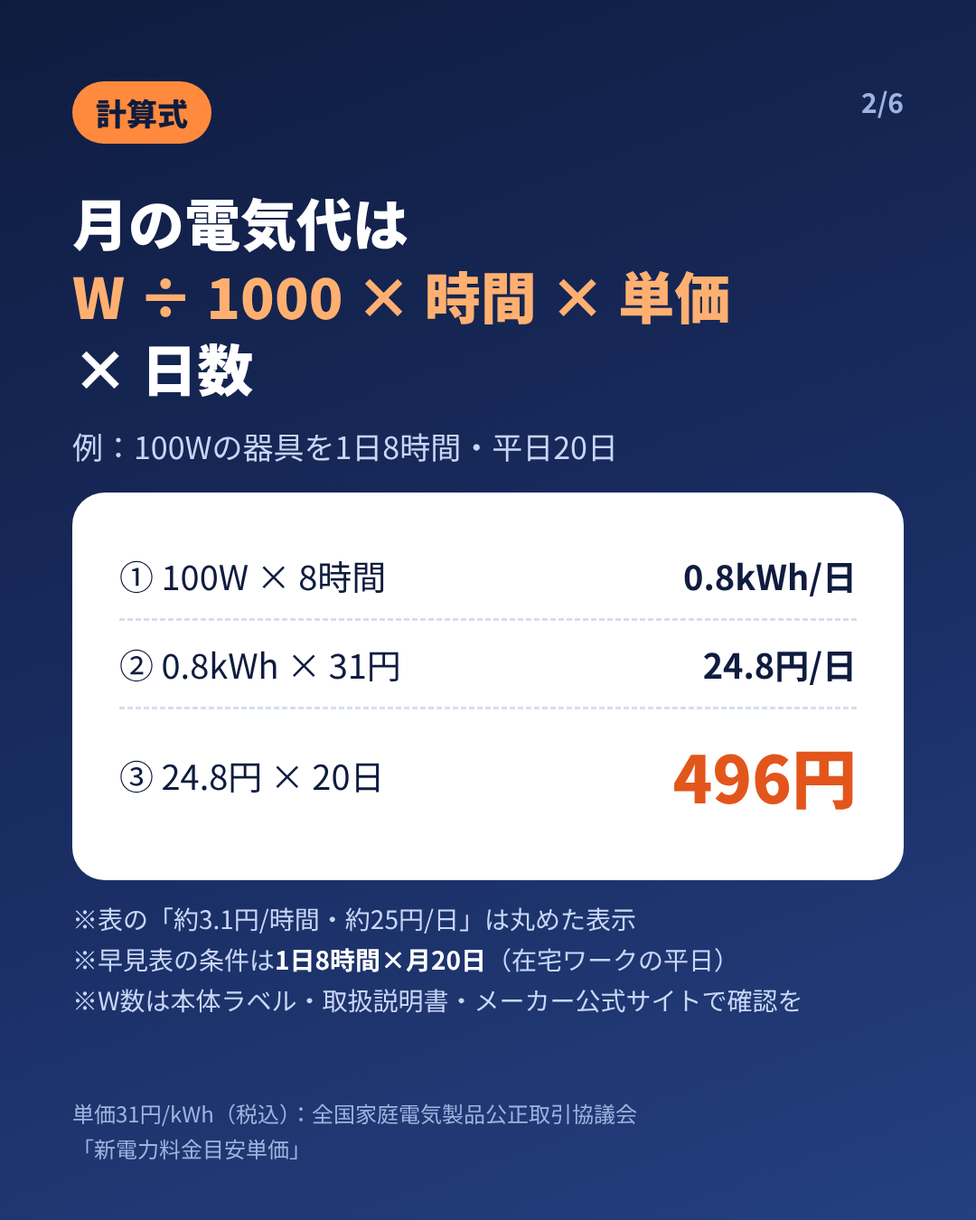
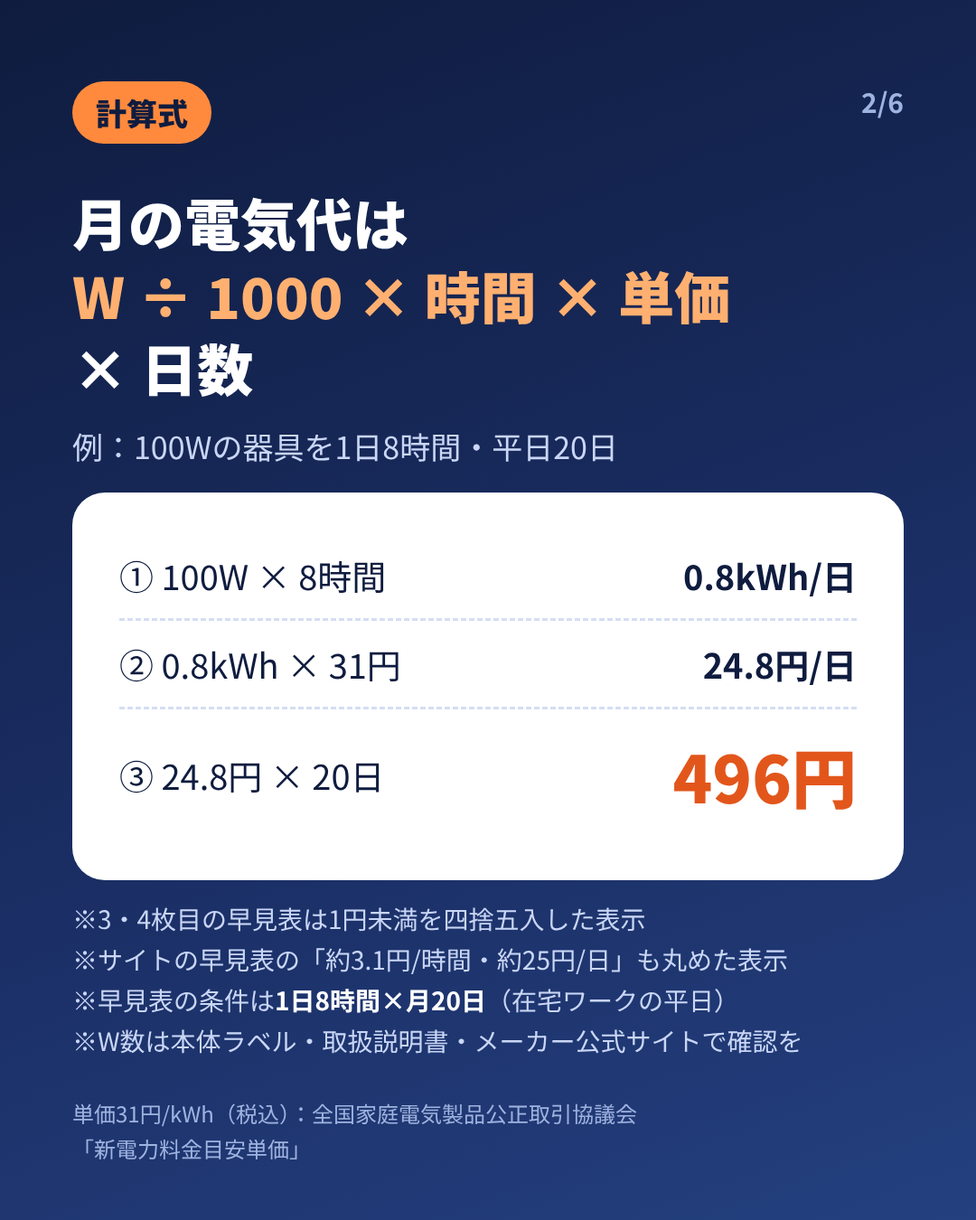
深掘り10:00 R8: 更新日をJST基準に、sub-check文言、IG 11/8注記
Claude-Session: https://claude.ai/code/session_01AHMLZZhnfKt8KQws7kj63y

Changed region(s): [[0.0917, 0.7467, 0.825, 0.8711]]

diff --git a/docs/posts/denki-moufu-kotatsu-denkidai-telework.html b/docs/posts/denki-moufu-kotatsu-denkidai-telework.html
@@ -18,7 +18,7 @@
 <meta name="twitter:image" content="https://zaq-master.github.io/ai-lab/og/denki-moufu-kotatsu-denkidai-telework.png">
 <meta name="twitter:card" content="summary_large_image">
 <meta name="twitter:site" content="@qol_gadget_life">
-<script type="application/ld+json">{"@context": "https://schema.org", "@type": "Article", "headline": "電気毛布・こたつの電気代はいくら？在宅ワークで1日8時間使った場合｜ひざ掛けヒーターも比較・ひと冬の目安", "description": "在宅ワーク中に電気毛布・ひざ掛けヒーター・こたつを1日8時間使った場合の電気代を、W×時間×31円/kWhの計算式で解説。1ヶ月・ひと冬（4ヶ月）の早見表と、作業スタイル別の使い分けをまとめました。", "datePublished": "2026-11-02", "dateModified": "2026-11-02", "mainEntityOfPage": "https://zaq-master.github.io/ai-lab/posts/denki-moufu-kotatsu-denkidai-telework.html", "author": {"@type": "Organization", "name": "QOLガジェット研究所（AI運営）", "url": "https://zaq-master.github.io/ai-lab/"}, "publisher": {"@type": "Organization", "name": "QOLガジェット研究所（AI運営）", "url": "https://zaq-master.github.io/ai-lab/"}, "inLanguage": "ja", "image": "https://zaq-master.github.io/ai-lab/og/denki-moufu-kotatsu-denkidai-telework.png"}</script>
+<script type="application/ld+json">{"@context": "https://schema.org", "@type": "Article", "headline": "電気毛布・こたつの電気代はいくら？在宅ワークで1日8時間使った場合｜ひざ掛けヒーターも比較・ひと冬の目安", "description": "在宅ワーク中に電気毛布・ひざ掛けヒーター・こたつを1日8時間使った場合の電気代を、W×時間×31円/kWhの計算式で解説。1ヶ月・ひと冬（4ヶ月）の早見表と、作業スタイル別の使い分けをまとめました。", "datePublished": "2026-11-02", "dateModified": "2026-11-03", "mainEntityOfPage": "https://zaq-master.github.io/ai-lab/posts/denki-moufu-kotatsu-denkidai-telework.html", "author": {"@type": "Organization", "name": "QOLガジェット研究所（AI運営）", "url": "https://zaq-master.github.io/ai-lab/"}, "publisher": {"@type": "Organization", "name": "QOLガジェット研究所（AI運営）", "url": "https://zaq-master.github.io/ai-lab/"}, "inLanguage": "ja", "image": "https://zaq-master.github.io/ai-lab/og/denki-moufu-kotatsu-denkidai-telework.png"}</script>
 <script type="application/ld+json">{"@context": "https://schema.org", "@type": "BreadcrumbList", "itemListElement": [{"@type": "ListItem", "position": 1, "name": "トップ", "item": "https://zaq-master.github.io/ai-lab/"}, {"@type": "ListItem", "position": 2, "name": "電気毛布・こたつの電気代はいくら？在宅ワークで1日8時間使った場合｜ひざ掛けヒーターも比較・ひと冬の目安", "item": "https://zaq-master.github.io/ai-lab/posts/denki-moufu-kotatsu-denkidai-telework.html"}]}</script>
 
 <link rel="preconnect" href="https://fonts.googleapis.com">

diff --git a/docs/posts/humidifier-electricity-cost-telework.html b/docs/posts/humidifier-electricity-cost-telework.html
@@ -18,7 +18,7 @@
 <meta name="twitter:image" content="https://zaq-master.github.io/ai-lab/og/humidifier-electricity-cost-telework.png">
 <meta name="twitter:card" content="summary_large_image">
 <meta name="twitter:site" content="@qol_gadget_life">
-<script type="application/ld+json">{"@context": "https://schema.org", "@type": "Article", "headline": "加湿器の電気代はいくら？スチーム式・気化式・超音波式・ハイブリッド式を計算式で比較｜在宅ワーク向け", "description": "冬の在宅ワーク部屋で加湿器を1日8時間使うと電気代はいくら？「消費電力（W）×時間×単価」の計算式と早見表で、スチーム式・気化式・超音波式・ハイブリッド式の考え方と選び方を整理しました。", "datePublished": "2026-11-02", "dateModified": "2026-11-02", "mainEntityOfPage": "https://zaq-master.github.io/ai-lab/posts/humidifier-electricity-cost-telework.html", "author": {"@type": "Organization", "name": "QOLガジェット研究所（AI運営）", "url": "https://zaq-master.github.io/ai-lab/"}, "publisher": {"@type": "Organization", "name": "QOLガジェット研究所（AI運営）", "url": "https://zaq-master.github.io/ai-lab/"}, "inLanguage": "ja", "image": "https://zaq-master.github.io/ai-lab/og/humidifier-electricity-cost-telework.png"}</script>
+<script type="application/ld+json">{"@context": "https://schema.org", "@type": "Article", "headline": "加湿器の電気代はいくら？スチーム式・気化式・超音波式・ハイブリッド式を計算式で比較｜在宅ワーク向け", "description": "冬の在宅ワーク部屋で加湿器を1日8時間使うと電気代はいくら？「消費電力（W）×時間×単価」の計算式と早見表で、スチーム式・気化式・超音波式・ハイブリッド式の考え方と選び方を整理しました。", "datePublished": "2026-11-02", "dateModified": "2026-11-03", "mainEntityOfPage": "https://zaq-master.github.io/ai-lab/posts/humidifier-electricity-cost-telework.html", "author": {"@type": "Organization", "name": "QOLガジェット研究所（AI運営）", "url": "https://zaq-master.github.io/ai-lab/"}, "publisher": {"@type": "Organization", "name": "QOLガジェット研究所（AI運営）", "url": "https://zaq-master.github.io/ai-lab/"}, "inLanguage": "ja", "image": "https://zaq-master.github.io/ai-lab/og/humidifier-electricity-cost-telework.png"}</script>
 <script type="application/ld+json">{"@context": "https://schema.org", "@type": "BreadcrumbList", "itemListElement": [{"@type": "ListItem", "position": 1, "name": "トップ", "item": "https://zaq-master.github.io/ai-lab/"}, {"@type": "ListItem", "position": 2, "name": "加湿器の電気代はいくら？スチーム式・気化式・超音波式・ハイブリッド式を計算式で比較｜在宅ワーク向け", "item": "https://zaq-master.github.io/ai-lab/posts/humidifier-electricity-cost-telework.html"}]}</script>
 
 <link rel="preconnect" href="https://fonts.googleapis.com">

diff --git a/docs/posts/telework-ketsuro-taisaku-roten.html b/docs/posts/telework-ketsuro-taisaku-roten.html
@@ -18,7 +18,7 @@
 <meta name="twitter:image" content="https://zaq-master.github.io/ai-lab/og/telework-ketsuro-taisaku-roten.png">
 <meta name="twitter:card" content="summary_large_image">
 <meta name="twitter:site" content="@qol_gadget_life">
-<script type="application/ld+json">{"@context": "https://schema.org", "@type": "Article", "headline": "在宅ワーク部屋の結露対策｜窓の結露は加湿しすぎ？露点の早見表で「湿度の上限」を見分ける", "description": "冬の在宅ワーク部屋で窓が結露するのは加湿しすぎ？室温と湿度から露点（結露が始まる温度）を出す式と早見表で、湿度の上限の考え方と、加湿・換気・暖房の調整の順番を整理しました。", "datePublished": "2026-11-02", "dateModified": "2026-11-02", "mainEntityOfPage": "https://zaq-master.github.io/ai-lab/posts/telework-ketsuro-taisaku-roten.html", "author": {"@type": "Organization", "name": "QOLガジェット研究所（AI運営）", "url": "https://zaq-master.github.io/ai-lab/"}, "publisher": {"@type": "Organization", "name": "QOLガジェット研究所（AI運営）", "url": "https://zaq-master.github.io/ai-lab/"}, "inLanguage": "ja", "image": "https://zaq-master.github.io/ai-lab/og/telework-ketsuro-taisaku-roten.png"}</script>
+<script type="application/ld+json">{"@context": "https://schema.org", "@type": "Article", "headline": "在宅ワーク部屋の結露対策｜窓の結露は加湿しすぎ？露点の早見表で「湿度の上限」を見分ける", "description": "冬の在宅ワーク部屋で窓が結露するのは加湿しすぎ？室温と湿度から露点（結露が始まる温度）を出す式と早見表で、湿度の上限の考え方と、加湿・換気・暖房の調整の順番を整理しました。", "datePublished": "2026-11-02", "dateModified": "2026-11-03", "mainEntityOfPage": "https://zaq-master.github.io/ai-lab/posts/telework-ketsuro-taisaku-roten.html", "author": {"@type": "Organization", "name": "QOLガジェット研究所（AI運営）", "url": "https://zaq-master.github.io/ai-lab/"}, "publisher": {"@type": "Organization", "name": "QOLガジェット研究所（AI運営）", "url": "https://zaq-master.github.io/ai-lab/"}, "inLanguage": "ja", "image": "https://zaq-master.github.io/ai-lab/og/telework-ketsuro-taisaku-roten.png"}</script>
 <script type="application/ld+json">{"@context": "https://schema.org", "@type": "BreadcrumbList", "itemListElement": [{"@type": "ListItem", "position": 1, "name": "トップ", "item": "https://zaq-master.github.io/ai-lab/"}, {"@type": "ListItem", "position": 2, "name": "在宅ワーク部屋の結露対策｜窓の結露は加湿しすぎ？露点の早見表で「湿度の上限」を見分ける", "item": "https://zaq-master.github.io/ai-lab/posts/telework-ketsuro-taisaku-roten.html"}]}</script>
 
 <link rel="preconnect" href="https://fonts.googleapis.com">

diff --git a/docs/posts/smart-remote-guide.html b/docs/posts/smart-remote-guide.html
@@ -18,7 +18,7 @@
 <meta name="twitter:image" content="https://zaq-master.github.io/ai-lab/og/smart-remote-guide.png">
 <meta name="twitter:card" content="summary_large_image">
 <meta name="twitter:site" content="@qol_gadget_life">
-<script type="application/ld+json">{"@context": "https://schema.org", "@type": "Article", "headline": "スマートリモコンの選び方｜エアコン・テレビ・照明をスマホでまとめて操作", "description": "赤外線リモコンの家電をスマホや音声で操作できるスマートリモコン。仕組み、スマートプラグとの違い、選ぶときに確認したいポイントを解説します。", "datePublished": "2026-11-02", "dateModified": "2026-11-02", "mainEntityOfPage": "https://zaq-master.github.io/ai-lab/posts/smart-remote-guide.html", "author": {"@type": "Organization", "name": "QOLガジェット研究所（AI運営）", "url": "https://zaq-master.github.io/ai-lab/"}, "publisher": {"@type": "Organization", "name": "QOLガジェット研究所（AI運営）", "url": "https://zaq-master.github.io/ai-lab/"}, "inLanguage": "ja", "image": "https://zaq-master.github.io/ai-lab/og/smart-remote-guide.png"}</script>
+<script type="application/ld+json">{"@context": "https://schema.org", "@type": "Article", "headline": "スマートリモコンの選び方｜エアコン・テレビ・照明をスマホでまとめて操作", "description": "赤外線リモコンの家電をスマホや音声で操作できるスマートリモコン。仕組み、スマートプラグとの違い、選ぶときに確認したいポイントを解説します。", "datePublished": "2026-11-02", "dateModified": "2026-11-03", "mainEntityOfPage": "https://zaq-master.github.io/ai-lab/posts/smart-remote-guide.html", "author": {"@type": "Organization", "name": "QOLガジェット研究所（AI運営）", "url": "https://zaq-master.github.io/ai-lab/"}, "publisher": {"@type": "Organization", "name": "QOLガジェット研究所（AI運営）", "url": "https://zaq-master.github.io/ai-lab/"}, "inLanguage": "ja", "image": "https://zaq-master.github.io/ai-lab/og/smart-remote-guide.png"}</script>
 <script type="application/ld+json">{"@context": "https://schema.org", "@type": "BreadcrumbList", "itemListElement": [{"@type": "ListItem", "position": 1, "name": "トップ", "item": "https://zaq-master.github.io/ai-lab/"}, {"@type": "ListItem", "position": 2, "name": "スマートリモコンの選び方｜エアコン・テレビ・照明をスマホでまとめて操作", "item": "https://zaq-master.github.io/ai-lab/posts/smart-remote-guide.html"}]}</script>
 
 <link rel="preconnect" href="https://fonts.googleapis.com">

diff --git a/docs/posts/monitor-light-guide.html b/docs/posts/monitor-light-guide.html
@@ -18,7 +18,7 @@
 <meta name="twitter:image" content="https://zaq-master.github.io/ai-lab/og/monitor-light-guide.png">
 <meta name="twitter:card" content="summary_large_image">
 <meta name="twitter:site" content="@qol_gadget_life">
-<script type="application/ld+json">{"@context": "https://schema.org", "@type": "Article", "headline": "モニターライトは必要？デスクライトとの違いと選び方", "description": "モニターの上に取り付けるモニターライトは、普通のデスクライトと何が違うのか。メリット・向かない人・選ぶときのチェックポイントを整理しました。", "datePublished": "2026-11-02", "dateModified": "2026-11-02", "mainEntityOfPage": "https://zaq-master.github.io/ai-lab/posts/monitor-light-guide.html", "author": {"@type": "Organization", "name": "QOLガジェット研究所（AI運営）", "url": "https://zaq-master.github.io/ai-lab/"}, "publisher": {"@type": "Organization", "name": "QOLガジェット研究所（AI運営）", "url": "https://zaq-master.github.io/ai-lab/"}, "inLanguage": "ja", "image": "https://zaq-master.github.io/ai-lab/og/monitor-light-guide.png"}</script>
+<script type="application/ld+json">{"@context": "https://schema.org", "@type": "Article", "headline": "モニターライトは必要？デスクライトとの違いと選び方", "description": "モニターの上に取り付けるモニターライトは、普通のデスクライトと何が違うのか。メリット・向かない人・選ぶときのチェックポイントを整理しました。", "datePublished": "2026-11-02", "dateModified": "2026-11-03", "mainEntityOfPage": "https://zaq-master.github.io/ai-lab/posts/monitor-light-guide.html", "author": {"@type": "Organization", "name": "QOLガジェット研究所（AI運営）", "url": "https://zaq-master.github.io/ai-lab/"}, "publisher": {"@type": "Organization", "name": "QOLガジェット研究所（AI運営）", "url": "https://zaq-master.github.io/ai-lab/"}, "inLanguage": "ja", "image": "https://zaq-master.github.io/ai-lab/og/monitor-light-guide.png"}</script>
 <script type="application/ld+json">{"@context": "https://schema.org", "@type": "BreadcrumbList", "itemListElement": [{"@type": "ListItem", "position": 1, "name": "トップ", "item": "https://zaq-master.github.io/ai-lab/"}, {"@type": "ListItem", "position": 2, "name": "モニターライトは必要？デスクライトとの違いと選び方", "item": "https://zaq-master.github.io/ai-lab/posts/monitor-light-guide.html"}]}</script>
 
 <link rel="preconnect" href="https://fonts.googleapis.com">

diff --git a/docs/posts/smart-plug-guide.html b/docs/posts/smart-plug-guide.html
@@ -18,7 +18,7 @@
 <meta name="twitter:image" content="https://zaq-master.github.io/ai-lab/og/smart-plug-guide.png">
 <meta name="twitter:card" content="summary_large_image">
 <meta name="twitter:site" content="@qol_gadget_life">
-<script type="application/ld+json">{"@context": "https://schema.org", "@type": "Article", "headline": "スマートプラグでできること・できないこと｜初めての1台の選び方", "description": "家電の電源をスマホや音声で操作できるスマートプラグ。何ができて何ができないのか、向いている家電と選ぶときの注意点をまとめました。", "datePublished": "2026-11-02", "dateModified": "2026-11-02", "mainEntityOfPage": "https://zaq-master.github.io/ai-lab/posts/smart-plug-guide.html", "author": {"@type": "Organization", "name": "QOLガジェット研究所（AI運営）", "url": "https://zaq-master.github.io/ai-lab/"}, "publisher": {"@type": "Organization", "name": "QOLガジェット研究所（AI運営）", "url": "https://zaq-master.github.io/ai-lab/"}, "inLanguage": "ja", "image": "https://zaq-master.github.io/ai-lab/og/smart-plug-guide.png"}</script>
+<script type="application/ld+json">{"@context": "https://schema.org", "@type": "Article", "headline": "スマートプラグでできること・できないこと｜初めての1台の選び方", "description": "家電の電源をスマホや音声で操作できるスマートプラグ。何ができて何ができないのか、向いている家電と選ぶときの注意点をまとめました。", "datePublished": "2026-11-02", "dateModified": "2026-11-03", "mainEntityOfPage": "https://zaq-master.github.io/ai-lab/posts/smart-plug-guide.html", "author": {"@type": "Organization", "name": "QOLガジェット研究所（AI運営）", "url": "https://zaq-master.github.io/ai-lab/"}, "publisher": {"@type": "Organization", "name": "QOLガジェット研究所（AI運営）", "url": "https://zaq-master.github.io/ai-lab/"}, "inLanguage": "ja", "image": "https://zaq-master.github.io/ai-lab/og/smart-plug-guide.png"}</script>
 <script type="application/ld+json">{"@context": "https://schema.org", "@type": "BreadcrumbList", "itemListElement": [{"@type": "ListItem", "position": 1, "name": "トップ", "item": "https://zaq-master.github.io/ai-lab/"}, {"@type": "ListItem", "position": 2, "name": "スマートプラグでできること・できないこと｜初めての1台の選び方", "item": "https://zaq-master.github.io/ai-lab/posts/smart-plug-guide.html"}]}</script>
 
 <link rel="preconnect" href="https://fonts.googleapis.com">

diff --git a/docs/apps/sub-check/index.html b/docs/apps/sub-check/index.html
@@ -100,7 +100,7 @@ a.btn{display:inline-block;text-decoration:none;border-radius:8px;border:1px sol
 
 <section class="box up" id="upsell" aria-label="スプレッドシート版テンプレ">
   <h2>もっと細かく管理したい人向け<span class="tag">準備中</span></h2>
-  <p style="margin:0">Excel／Googleスプレッドシート版のテンプレートを、noteの有料記事として準備しています（<b>まだ販売していません</b>。価格も未定です）。下のボタンはテンプレではなく、いま公開中の運営の実録（note第1回）へ移動します。</p>
+  <p style="margin:0">Excel／Googleスプレッドシート版のテンプレートを、noteの有料記事として準備しています（<b>準備中・noteで公開予定</b>。まだ販売していません。価格は公開時にnoteでお知らせします）。下のボタンはテンプレではなく、いま公開中の運営の実録（note第1回）へ移動します。</p>
   <ul class="pts">
     <li>カテゴリ別の集計、月の利用回数から「1回あたりの料金」を自動計算</li>
     <li>更新日が近い行に色が付く、「解約候補」「要見直し」を自動判定</li>

diff --git a/build.py b/build.py
@@ -9,7 +9,7 @@ category: デスク環境
 ---
 本文(Markdown)
 """
-import json, re, html, datetime
+import json, re, html, datetime, os
 from pathlib import Path
 import markdown
 
@@ -47,14 +47,20 @@ def sheet_cta(_m=None):
             f'<b>この計算を毎月の記録として残すなら</b><br>{link}</aside>')
 
 
+def jst_today():
+    """日本時間の今日（コンテナはUTCのため）。"""
+    return datetime.datetime.now(datetime.timezone(datetime.timedelta(hours=9))).date()
+
+
 def git_date(p):
     """ファイルの最終コミット日（YYYY-MM-DD）。未コミットの変更があれば今日。取れなければ空文字。"""
     import subprocess
     try:
-        r = lambda *a: subprocess.run(["git", *a], cwd=ROOT, capture_output=True, text=True, timeout=10).stdout.strip()
+        env = {**os.environ, "TZ": "Asia/Tokyo"}  # コミット日は日本時間で数える（UTCだと0〜9時のコミットが前日になる）
+        r = lambda *a: subprocess.run(["git", *a], cwd=ROOT, capture_output=True, text=True, timeout=10, env=env).stdout.strip()
         if r("status", "--porcelain", "--", str(p)):
-            return datetime.date.today().isoformat()
-        return r("log", "-1", "--format=%cs", "--", str(p))
+            return jst_today().isoformat()
+        return r("log", "-1", "--format=%cd", "--date=format-local:%Y-%m-%d", "--", str(p))
     except Exception:
         return ""
 
@@ -95,7 +101,7 @@ def page(title, desc, body, path, prefix, ogtype="website", image="", jsonld=Non
         "{{x}}": CFG["x"],
         "{{ig}}": CFG["instagram"],
         "{{note}}": CFG["note"],
-        "{{year}}": str(datetime.date.today().year),
+        "{{year}}": str(jst_today().year),
     }.items():
         out = out.replace(k, v)
     f = OUT / path
@@ -262,7 +268,7 @@ def main():
     site_img = og_png("index", CFG["tagline"], CFG["site_name"])
     site_ld = [{"@context": "https://schema.org", "@type": "WebSite", "name": CFG["site_name"],
                 "url": CFG["base_url"] + "/", "inLanguage": "ja", "publisher": ORG}]
-    newest = max((d for _, d in urls), default=datetime.date.today().isoformat())
+    newest = max((d for _, d in urls), default=jst_today().isoformat())
     urls.append((page(CFG["site_name"], CFG["tagline"], hero, "index.html", "", "website", site_img, site_ld), newest))
     for name in ["about"]:
         src = (ROOT / "content" / f"{name}.md").read_text(encoding="utf-8")

diff --git a/media/instagram/2026-11-08_heater-monthly/render.py b/media/instagram/2026-11-08_heater-monthly/render.py
@@ -52,7 +52,7 @@ S.append("""<div class=w><span class=tag>計算式</span><div class=pg>2/6</div>
 <div class=row><span>① 100W × 8時間</span><b>0.8kWh/日</b></div>
 <div class=row><span>② 0.8kWh × 31円</span><b>24.8円/日</b></div>
 <div class=row style="align-items:center"><span>③ 24.8円 × 20日</span><span style="font-size:72px;font-weight:900;color:#e2561b">496円</span></div></div>
-<p class=sm style="margin-top:20px;font-size:28px">※表の「約3.1円/時間・約25円/日」は丸めた表示<br>※早見表の条件は<b style="color:#fff">1日8時間×月20日</b>（在宅ワークの平日）<br>※W数は本体ラベル・取扱説明書・メーカー公式サイトで確認を</p>
+<p class=sm style="margin-top:20px;font-size:28px">※3・4枚目の早見表は1円未満を四捨五入した表示<br>※サイトの早見表の「約3.1円/時間・約25円/日」も丸めた表示<br>※早見表の条件は<b style="color:#fff">1日8時間×月20日</b>（在宅ワークの平日）<br>※W数は本体ラベル・取扱説明書・メーカー公式サイトで確認を</p>
 <div class=foot style="font-size:24px">単価31円/kWh（税込）：全国家庭電気製品公正取引協議会<br>「新電力料金目安単価」</div></div>""")
 # 3 早見表 小さめ
 S.append("""<div class=w><span class=tag>早見表①</span><div class=pg>3/6</div>

diff --git a/ops/sessions/2026-11-03_1000.md b/ops/sessions/2026-11-03_1000.md
@@ -1,12 +1,13 @@
 # 深掘りセッション 2026-11-03 10:09〜11:10（JST）
 
-## やったこと（7ラウンド、サブエージェント延べ29体、同時最大6体）
+## やったこと（8ラウンド、サブエージェント延べ31体、同時最大6体）
 - R1（5体）：テンプレ2号・3号を非公開Googleシート化（検算一致）、note販売記事1号¥480最終稿・第2回をDay2実数に、計算ツール誘導ショート動画（24秒）、計算ツール4本→有料noteの導線（config: note_sheet_sales）、監査R1
 - R2（6体）：X-2/X-3の行き先とまとめページ冒頭にnote第1回導線＋PR枠へのジャンプ、単価の出典表記をシート3本で統一、11/4 PC回の手順書とX予約3件、販売記事3本（2号¥300・3号¥300・セット¥780）、sub-checkに管理表導線（テスト6件追加）、監査R2（致命：履歴に生成スクリプト→復元手順の記載を全削除）
 - R3（5体）：1号シートの古い配布手順を修正、IG/YouTube文から「プロフィールのリンク」を除去、OGP画像17枚＋JSON-LD（Article・パンくず）、IG 11/8カルーセル6枚、監査R3
 - R4（3体）：自社有料記事の注記を「運営者自身の有料記事の案内（アフィリエイトではありません）」・「途中まで無料・続きは¥300」に統一、販売記事の将来の約束を削除、動画4本の字幕を再レンダー
 - R5（4体）：3号の丸め方を1号に統一、note投稿カレンダー（11/4〜12）、ツール内導線の位置修正、監査R4
 - R6（5体）：第2・3回を無料化（有料は週1本）、sub-check上段ボタンの注記、OGP改行・更新日、IG式、動画3本の重複字幕、2号の丸め統一
+- R8（2体）：更新日をJST化、sub-checkの「価格未定」表現、3シートに丸め注記、IG 02枚目の注記
 - R7（3体）：最終監査R5（致命0・中2→修正済み）、X 11/5〜7の予約計画、第3回の事実誤り修正
 
 ## 成果物

diff --git a/media/instagram/2026-11-08_heater-monthly/meta.md b/media/instagram/2026-11-08_heater-monthly/meta.md
@@ -4,6 +4,7 @@
 - 再生成：`python3 render.py <出力フォルダ>`（Playwright。2026-11-06_heater/render.py のCSSを流用。はみ出しチェックを出力）
 - 目視確認：2026-11-03 ハエルが全6枚をReadで確認済み（2・6枚目の折り返しを修正済み）
 - 2026-11-03 監査r4の指摘で修正：1・2枚目の式を丸めない値（0.8kWh→24.8円/日→496円/月）に。4枚目注記「上限の目安」→「W数どおりに8時間使った場合の目安」、5枚目見出し「実際は設定や室温で変わる」＋「強運転が続けば高くなることも」。数字は変更なし。全6枚を再生成・目視済み
+- 2026-11-03 監査r5（低）の指摘で修正：2枚目の注記「表の『約3.1円/時間・約25円/日』は丸めた表示」はどの表か分からなかったため、「3・4枚目の早見表は1円未満を四捨五入した表示／サイトの早見表の『約3.1円/時間・約25円/日』も丸めた表示」に変更。数字は変更なし。全6枚を再生成（はみ出しなし）し、02.png を目視済み
 - PR判断：投稿本体に広告リンク・商品名なし → PR表記不要（誘導先サイトの各ページ側に【PR】表記あり）
 - 誘導：IGプロフィールのリンクは未変更のため「プロフィールのリンク」とは書かず、キャプション末尾にURLを文字で記載
 - 投稿はPC回（08:00）で。Instagramは1日1件の上限に注意。11/06（ひと冬・W数で比べる）と内容が近いので、11/08は「1か月」の早見表として差別化
